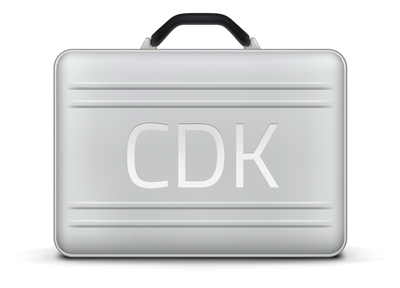
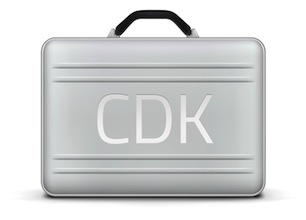
index 0.2.3.1

diff --git a/index.html b/index.html
@@ -93,7 +93,7 @@
 
 	
 			
-<div align="center"><div class="jumbotron"><img src="img/cdk-big.jpg" width="400" height="288">
+<div align="center"><div class="jumbotron"><img src="img/cdk-big.jpg" width="306" height="220">
 </div>
 
 <div class="body-content">
